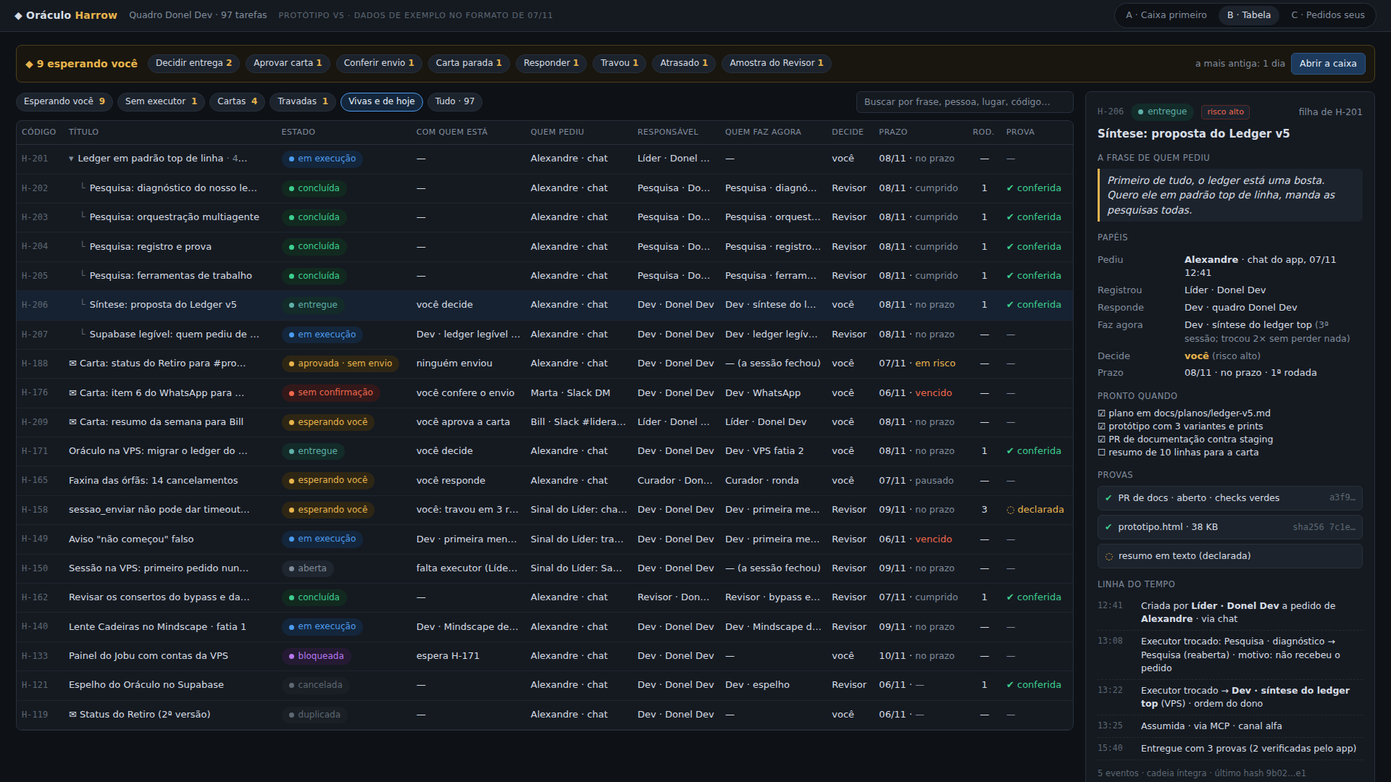
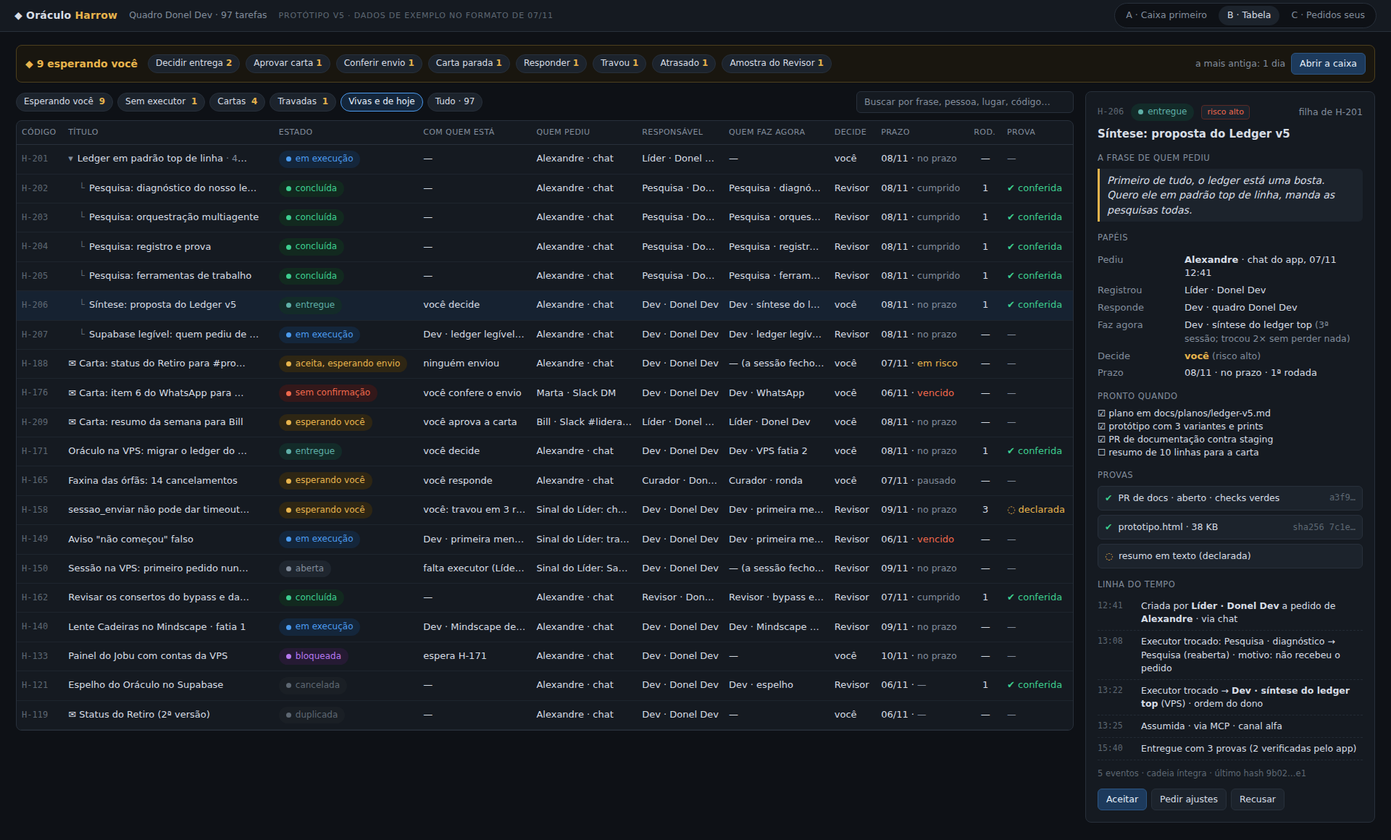
docs: corrige o Ledger v5 com os achados da revisão do PR #280
Protótipo sem rolagem lateral em 390 px nas três variantes, com prints
de celular e de tela larga. Fatias verticais com critério de pronto que
o Revisor confere (a 6 e a 8 antigas viram quatro cada; a 3 e a 4 ganham
efeito visível). D5 (variante), texto "não registrado" e vistas
alinhados com o PR #279, beta já só-leitura, e destino para as práticas
8 e 10 da pesquisa de orquestração.

diff --git a/docs/planos/ledger-v5/prototipo.html b/docs/planos/ledger-v5/prototipo.html
@@ -103,12 +103,43 @@ tr.child td.titlecell{padding-left:22px}
 .kids li{display:flex;align-items:center;gap:8px;padding:5px 0;border-top:1px solid #1e252e;font-size:13px}
 .c-side{padding:14px;align-self:start}
 .c-side .item .t{font-size:13px}
+.tablewrap{overflow-x:auto;-webkit-overflow-scrolling:touch}
+
+/* ---------- larguras menores: nada de rolagem lateral na página ---------- */
+@media (max-width:1180px){
+  .a-grid{grid-template-columns:repeat(2,minmax(0,1fr))}
+  .b-wrap,.c-wrap{grid-template-columns:minmax(0,1fr)}
+  .drawer{position:static}
+  .c-side{order:-1}
+}
+@media (max-width:720px){
+  .topbar{height:auto;flex-wrap:wrap;gap:6px 12px;padding:10px 16px}
+  .topbar .sub{font-size:12px}
+  .proto{order:3;width:100%}
+  .switch{order:4;margin-left:0;width:100%}
+  .switch button{flex:1;padding:6px 4px;font-size:12px}
+  main{padding:14px 16px 20px}
+  .a-head{flex-wrap:wrap;gap:10px}
+  .a-head .grow{flex-basis:100%}
+  .a-grid,.c-list{grid-template-columns:minmax(0,1fr)}
+  .a-all{flex-wrap:wrap;gap:12px 18px}
+  .b-inbox,.filters{flex-wrap:wrap}
+  .b-inbox .grow{display:none}
+  .search{margin-left:0;width:100%}
+  th.opt,td.opt{display:none}
+  .roles{grid-template-columns:86px minmax(0,1fr)}
+  .c-head{flex-wrap:wrap}
+  .code{white-space:nowrap}
+  .kids li{flex-wrap:wrap;row-gap:2px}
+  .kids li .who{max-width:100%!important;flex-basis:100%;padding-left:2px}
+  #view-b .titlecell .ellipsis{max-width:150px!important}
+}
 </style>
 </head>
 <body>
 <div class="topbar">
   <span class="brand">◆ Oráculo <b>Harrow</b></span>
-  <span class="sub">Quadro Donel Dev · 97 tarefas</span>
+  <span class="sub">Quadro Donel Dev · 97&nbsp;tarefas</span>
   <span class="proto">protótipo v5 · dados de exemplo no formato de 07/11</span>
   <div class="switch" id="switch">
     <button data-v="a">A · Caixa primeiro</button>
@@ -127,7 +158,7 @@ tr.child td.titlecell{padding-left:22px}
 const ST = {
   aberta:['aberta','s-aberta'], exec:['em execução','s-exec'], bloq:['bloqueada','s-bloq'], voce:['esperando você','s-voce'],
   entregue:['entregue','s-entregue'], ok:['concluída','s-ok'], cancel:['cancelada','s-cancel'], dup:['duplicada','s-cancel'],
-  aprovada:['aprovada · sem envio','s-voce'], semconf:['sem confirmação','s-bad'], falhou:['falhou','s-bad'], enviada:['enviada','s-ok'],
+  aprovada:['aceita, esperando envio','s-voce'], semconf:['sem confirmação','s-bad'], falhou:['falhou','s-bad'], enviada:['enviada','s-ok'],
 };
 const T = [
   {c:'H-201',t:'Ledger em padrão top de linha',st:'exec',pai:null,ped:'Alexandre · chat',reg:'Líder · Donel Dev',resp:'Líder · Donel Dev',exe:'—',dec:'você',risco:'alto',prazo:'08/11',ps:'no prazo',rod:0,prova:'',kids:6,done:4,
@@ -231,9 +262,9 @@ function rowB(x,child){
   return `<tr class="${child?'child':''} ${x.c==='H-206'?'sel':''}">
     <td class="code">${x.c}</td><td class="titlecell"><div class="ellipsis" style="max-width:250px">${title}</div></td>
     <td>${pill(x.st)}</td><td class="ellipsis" style="max-width:150px">${comQuem(x)}</td>
-    <td class="ellipsis" style="max-width:140px">${ped}</td><td class="ellipsis" style="max-width:115px">${x.resp}</td>
-    <td class="ellipsis" style="max-width:140px">${x.exe}</td><td>${x.dec}</td>
-    <td>${x.prazo} · ${ps(x.ps)}</td><td style="text-align:center">${x.rod||'—'}</td><td>${proof(x.prova)}</td></tr>`;
+    <td class="ellipsis" style="max-width:140px">${ped}</td><td class="ellipsis opt" style="max-width:115px">${x.resp}</td>
+    <td class="ellipsis" style="max-width:140px">${x.exe}</td><td class="opt">${x.dec}</td>
+    <td>${x.prazo} · ${ps(x.ps)}</td><td class="opt" style="text-align:center">${x.rod||'—'}</td><td>${proof(x.prova)}</td></tr>`;
 }
 document.getElementById('view-b').innerHTML = `
   <div class="card b-inbox"><span class="lbl">◆ ${inboxTotal} esperando você</span>
@@ -246,8 +277,8 @@ document.getElementById('view-b').innerHTML = `
         <span class="chip">Cartas <b>4</b></span><span class="chip">Travadas <b>1</b></span><span class="chip on">Vivas e de hoje</span><span class="chip">Tudo · 97</span>
         <span class="search">Buscar por frase, pessoa, lugar, código…</span>
       </div>
-      <div class="card" style="overflow:hidden"><table>
-        <thead><tr><th>Código</th><th>Título</th><th>Estado</th><th>Com quem está</th><th>Quem pediu</th><th>Responsável</th><th>Quem faz agora</th><th>Decide</th><th>Prazo</th><th>Rod.</th><th>Prova</th></tr></thead>
+      <div class="card tablewrap"><table>
+        <thead><tr><th>Código</th><th>Título</th><th>Estado</th><th>Com quem está</th><th>Quem pediu</th><th class="opt">Responsável</th><th>Quem faz agora</th><th class="opt">Decide</th><th>Prazo</th><th class="opt">Rod.</th><th>Prova</th></tr></thead>
         <tbody>${rowsB()}</tbody></table></div>
     </div>
     <aside class="card drawer">
@@ -293,7 +324,7 @@ const asks = [
   {root:{c:'H-209',q:'Resumo da semana para as lideranças.',ped:'Bill · Slack #liderancas',prazo:'08/11'},kids:[byCode['H-209']]},
 ];
 document.getElementById('view-c').innerHTML = `
-  <div class="row" style="margin-bottom:12px"><h1>Pedidos</h1><span class="sub">cada cartão é uma frase de alguém; as filhas são o trabalho que ela gerou</span>
+  <div class="row c-head" style="margin-bottom:12px"><h1>Pedidos</h1><span class="sub">cada cartão é uma frase de alguém; as filhas são o trabalho que ela gerou</span>
     <span class="grow"></span><span class="chip on">De você · 5</span><span class="chip">De outras pessoas · 2</span><span class="chip">Sinais e rotinas · 3</span></div>
   <div class="c-wrap">
     <div class="c-list">

diff --git a/docs/planos/ledger-v5.md b/docs/planos/ledger-v5.md
@@ -83,7 +83,7 @@ lugar não depende mais de o card ainda estar no quadro):
 | **Com quem está** | derivado | a próxima ação, em texto de gente | "você decide", "Revisor confere", "ninguém — falta executor" | não existe |
 
 `pedidoPor` é **obrigatório** em `tarefa_criar` e tem forma fixa `{ tipo: pessoa | sinal |
-rotina, nome, canal }`. Se a sessão não sabe, grava `não informado` — e a linha aparece marcada em
+rotina, nome, canal }`. Se a sessão não sabe, grava `não registrado` (o mesmo texto do PR #279) — e a linha aparece marcada em
 vermelho, nunca preenchida com o papel. Quando a frase veio do dono no chat da própria sessão, o
 app preenche sozinho (`Alexandre · chat`), porque ele sabe de onde chegou a mensagem.
 
@@ -154,6 +154,8 @@ rodada + 1) e `recusar` (fecha, não sai). Hoje "rejeitar" quer dizer as duas ú
 - **Qualquer lugar com Slack** (ou o app) envia uma carta aprovada, não só a sessão autora: a
   carta pertence ao responsável, como toda tarefa.
 - O registro do bot deixa de nascer `aceita`: um envio que falhou é `falhou`.
+- Na tela e no espelho, `aprovada` aparece com o texto que o PR #279 já usa: **"aceita, esperando
+  envio"**. O nome interno muda; o que o dono lê, não.
 
 ### 1.4 Idempotência
 
@@ -239,6 +241,9 @@ Cada prova ganha um **nível**: `verificada` (o app conferiu) ou `declarada` (o 
   valendo), obrigatório para o Revisor aceitar sozinho (ver D3).
 - `gh` indisponível (sem rede, sem login) → a prova fica `declarada` com o motivo, nunca bloqueia
   a entrega.
+- **Rastro carimbado** (prática 8 da pesquisa de orquestração): no `entregar`, o app grava no
+  evento a sessão, a branch e o commit da cabeça da worktree do executor, sem depender do que o
+  agente escreveu. Entra na fatia 12.
 
 ### 1.7 Limite de retrabalho
 
@@ -271,6 +276,8 @@ verbo**, derivada da projeção (nunca gravada à parte):
 - **Adiar** (*snooze*, Linear Inbox): some até a hora escolhida e volta sozinha.
 - A faixa mostra o número total e o mais antigo ("7 esperando você · a mais antiga há 2 dias").
 - A mesma lista alimenta o celular e a vista `esperando_voce` do espelho.
+- **Aviso para fora** (a outra metade da prática 10 da pesquisa de orquestração): cada item novo
+  da caixa dispara o aviso do celular que hoje só existe para carta. Entra na fatia 2.
 
 ### 1.9 Migração v4 → v5 sem perder dado e sem o Alfa antigo apagar nada
 
@@ -285,13 +292,13 @@ verbo**, derivada da projeção (nunca gravada à parte):
    `⟦feito por X⟧` → `executor` da entrega; `⟦substitui id⟧` → `substituida`; `⟦pedido por X⟧`
    (do PR do Dev das colunas) → `pedidoPor`; texto da faxina "concluída: PR #n" →
    `concluida-por-prova` com o link; registro do bot com "o envio falhou" → `falhou`.
-   Sem `pedidoPor` na origem → `não informado` (nunca o papel).
+   Sem `pedidoPor` na origem → `não registrado` (nunca o papel).
 4. **Conferência antes de ativar**: mesma quantidade de tarefas e de eventos, todo id presente,
    e a projeção reconvertida para o formato v4 bate com o original nas tarefas sem marca. Se não
    bater, a migração não ativa, o v4 segue gravando e a caixa mostra "migração recusada" com o
    motivo.
 5. O `ledger.json` passa a ser **regravado como projeção**, com `schemaVersion: 5`, tarefas no
-   formato v4 + campos novos. Um app v4 (Alfa 0.4.0, beta atual) que abre esse arquivo vê a
+   formato v4 + campos novos. Um app v4 (o Alfa 0.4.0) que abre esse arquivo vê a
    versão maior e **fica só-leitura** — mecanismo que já existe (`isNewerLedger`): ele lê as
    tarefas, não consegue gravar, e portanto **não apaga nada**. A fonte de verdade
    (`eventos.jsonl`) ele nem conhece. Para o parse v4 não descartar tarefas com estado novo, o
@@ -301,9 +308,10 @@ verbo**, derivada da projeção (nunca gravada à parte):
 6. A partir do v5 não há mais "subir versão": tipo e versão são por evento, e o leitor tolerante
    preserva o que não conhece (1.5).
 
-**Custo assumido (D1):** depois da migração, o Alfa 0.4.0 e o beta atual só leem o Oráculo — não
-criam tarefa nem liberam carta de Slack. Para trabalhar, o dono abre um Donel Dev v5. É a decisão
-explícita que o diagnóstico pede para sair do congelamento.
+**Custo assumido (D1):** depois da migração, o Alfa 0.4.0 só lê o Oráculo — não cria tarefa nem
+libera carta de Slack. Para trabalhar, o dono abre um Donel Dev v5. É a decisão explícita que o
+diagnóstico pede para sair do congelamento. O beta (`main`) **não muda nada**: ele tem
+`LEDGER_SCHEMA_VERSION = 2` e, pelo `isNewerLedger`, já é só-leitura com o ledger v4 de hoje.
 
 ---
 
@@ -342,7 +350,16 @@ navegador, sem rede). Três variantes, com dados no formato do snapshot real de 
 Na tela, o nível `verificada` aparece como "✔ conferida" (pelo app) e `declarada` como
 "◌ declarada". Os dados do protótipo são de exemplo, montados a partir das tarefas reais de 07/11.
 
-**Recomendação: B com a caixa da A no topo** (a caixa recolhe quando está vazia). A tabela é o
+**No celular** (390 px) as três variantes cabem sem rolagem lateral: a grade vira uma coluna, o
+seletor de variante ocupa a largura toda, o painel da B desce para baixo da tabela, a caixa da C
+sobe para o topo, e a tabela da B esconde Responsável, Decide e Rodadas e rola só dentro do próprio
+cartão. Prints: [A](ledger-v5/celular-a-caixa.png), [B](ledger-v5/celular-b-tabela.png),
+[C](ledger-v5/celular-c-pedidos.png). Conferido no Chromium em 390×844 e 1920×1080: largura da
+página igual à da tela nas três, os três botões do seletor dentro da tela, painel da B sem cruzar a
+tabela, nenhum erro de console e nenhuma requisição de rede.
+
+**Recomendação: B com a caixa da A no topo** (a caixa recolhe quando está vazia). A escolha é
+do dono: é a **D5** (seção 6). A tabela é o
 que ele já abriu no Supabase e criticou; a B responde direto às duas falas ("quem pediu",
 "top de linha"), e a caixa no topo garante que nada que espera por ele fique escondido. A C é a
 mais bonita para pedidos grandes, mas esconde o que não veio dele (sinais do Curador, rotinas).
@@ -355,9 +372,9 @@ dele e só acrescenta.** Nenhuma renomeação depois que o PR dele entrar.
 | Coluna (dele) | No v5 passa a vir de | Coluna nova do v5 | O que mostra |
 |---|---|---|---|
 | `quadro`, `titulo`, `pedido`, `risco`, `prazo`, `id` | igual | `codigo` | chave curta "H-142" |
-| `estado` | estado v5 em português (aberta, em execução, bloqueada, esperando você, entregue, concluída, cancelada, duplicada; carta: aprovada, enviando, enviada, falhou, sem confirmação) | `pai_id` | a tarefa-raiz |
+| `estado` | estado v5 em português (aberta, em execução, bloqueada, esperando você, entregue, concluída, cancelada, duplicada; carta: **aceita, esperando envio** — o mesmo texto do #279, que no v5 vem do estado `aprovada` —, enviando, enviada, falhou, sem confirmação) | `pai_id` | a tarefa-raiz |
 | `esperando_dono` | "está na caixa Esperando você" (qualquer tipo da 1.8) | `com_quem_esta` | "você decide", "Revisor confere", "ninguém — falta executor" |
-| `quem_pediu` | `pedidoPor` (campo, não mais a marca `⟦pedido por⟧`) | `responsavel` | papel · quadro |
+| `quem_pediu` | `pedidoPor` (campo, não mais a marca `⟦pedido por⟧`); sem ele, **"não registrado"**, como no #279 | `responsavel` | papel · quadro |
 | `quem_criou` | `registradaPor`, nome congelado | `quem_decide` | você / Revisor |
 | `quem_faz_agora` | `executor` (a sessão), nome congelado | `prazo_status` | no prazo · em risco · vencido · cumprido |
 | `ultima_entrega`, `link_da_prova`, `prova_texto` | igual | `prova_nivel` | verificada · declarada |
@@ -367,39 +384,80 @@ dele e só acrescenta.** Nenhuma renomeação depois que o PR dele entrar.
 Mais a tabela `tarefas_eventos` (uma linha por evento do log: `id`, `seq`, `tarefa_id`, `tipo`,
 `em`, `por_nome`, `via`, `canal`, `texto`, `hash`) e a vista `esperando_voce`.
 
+**As duas vistas convivem.** A `tarefas_em_aberto` do #279 **fica, com o mesmo nome**: é "tudo o
+que ainda não fechou". No v5 o filtro dela passa a incluir os estados novos que também não fecharam
+(bloqueada, esperando você, enviando, falhou, sem confirmação), além dos quatro de hoje (aberta, em
+execução, entregue, aceita, esperando envio). A `esperando_voce` é nova e mais estreita: só o que
+está na caixa, um item por linha, com o tipo e o verbo da 1.8.
+
 ## 5. Fatiamento em PRs pequenos
 
 Ordem pensada para o dono **sentir a diferença na primeira fatia**, antes de qualquer mudança de
-schema. Cada PR < 50 arquivos, contra `staging`, com `npm run verify`. Testes só onde a regra do
-projeto manda (dado persistido que um canal pode apagar, mensagem que some ou duplica).
+schema. Cada fatia é **vertical**: muda algo que o dono vê na tela, no celular ou no Supabase, e
+tem um **"pronto quando"** que o Revisor confere sem precisar perguntar ao Dev. Cada PR fica abaixo
+de 50 arquivos, vai contra `staging` e passa no `npm run verify`. Teste só onde a regra do projeto
+manda (dado persistido que um canal pode apagar, mensagem que some ou duplica, apagar coisa).
 
-| # | PR | O que o dono sente | Schema | Risco |
+**Base de conferência:** "o snapshot" é uma cópia do `ledger.json` de 07/11 (as 270 tarefas do
+diagnóstico), aberta num `userData` de teste e nunca no do dono. Os números esperados abaixo vêm
+do [diagnóstico](../pesquisas/ledger-diagnostico-2026-11-07.md).
+
+### Sem mexer no schema (v4)
+
+| # | Fatia | O dono vê | Pronto quando (o Revisor confere) | Risco |
 |---|---|---|---|---|
-| 1 | **Caixa "Esperando você" completa, sobre o v4** — derivada do que já existe: cartas aceitas não enviadas, envios "sem confirmação" e "falhou" (lendo o texto de hoje), entregues de risco baixo paradas há 24 h, órfãs para repassar, amostra do Revisor. Faixa com total e o mais antigo. Celular usa a mesma lista. | "Agora eu vejo tudo o que espera por mim." O 0 vira o número de verdade. | não muda | baixo |
-| 2 | **Tabela legível no app (variante B)** — vista "Tudo" do Oráculo com as colunas da seção 4 derivadas do v4, busca, filtros prontos, painel com linha do tempo. | "Dá para entender de quem é cada coisa." | não muda | baixo |
-| 3 | **Contrato v5 puro + upcaster v4→v5** — tipos, envelope, estados, regras novas em `applyLedgerOp`, upcaster das marcas. Sem gravar nada. Teste: importar um v4 de amostra não perde tarefa nem evento e reconverte igual. | nada visível (base) | define o v5 | médio |
-| 4 | **Log só de acréscimo + trava + hash + migração** — `eventos.jsonl`, `oraculo.lock`, conferência da cadeia, backups, projeção `ledger.json` v5; migração com conferência e recusa. Teste: migração, dois escritores, cadeia quebrada vira alerta. | Alfa antigo fica só-leitura (avisado antes). | **sobe para 5** | **alto** (D1) |
-| 5 | **Papéis e fim da órfã** — `pedidoPor` obrigatório (preenchido sozinho no chat do dono), executor separado, nomes congelados, sessão fechada → "aberta, sem executor" na caixa do Líder. | "Quem pediu: Alexandre", nunca "Dev". Órfãs zeram. | v5 | médio |
-| 6 | **Estados de verdade + idempotência + tarefa-pai** — bloqueada, esperando você (com pergunta), concluída, cancelada tipada, duplicada; `chave`; `paiId`/`dependeDe`; título obrigatório. Faxina fecha `concluida-por-prova`. | Um pedido = uma linha com filhas; sem 5 cópias; "cancelada" quer dizer cancelada. | v5 | médio |
-| 7 | **Carta com recibo** — estados de envio, `ts` + permalink, reenvio pela mesma chave, envio por qualquer lugar com Slack ou pelo app, conferência do "sem confirmação". | "Cadê a mensagem do Slack?" tem resposta com link. | v5 | médio (Slack em nome dele) |
-| 8 | **Prova verificada + Revisor + teto de retrabalho** — `sha256`, `gh` no entregar, nível da prova, checklist do critério, regra do Revisor (D3), 3 rodadas → caixa, "parada" em 4 h. | Prova com selo "conferida pelo app"; nada aceito no escuro. | v5 | médio |
-| 9 | **Espelho v5** — `tarefas` com as colunas novas + `tarefas_eventos` + vista `esperando_voce`, por outbox. Depende do PR do Dev das colunas ter entrado. | O Supabase conta a mesma história que o app. | v5 | baixo |
+| 1 | **Caixa "Esperando você" completa** — lista derivada do que já existe: cartas aceitas não enviadas, envios "sem confirmação" e "falhou" (lendo o texto de hoje), entregues de risco baixo paradas há 24 h, órfãs para repassar, amostra do Revisor. Faixa com total e o item mais antigo. | "Agora eu vejo tudo o que espera por mim." O 0 vira o número de verdade. | Sobre o snapshot, a caixa mostra **as 7 cartas aceitas e não enviadas** (os 7 ids do diagnóstico), **os 17 envios sem confirmação** e **as 8 entregues de risco baixo**, em vez de 0. A faixa mostra o total e "a mais antiga há N dias". Prints da faixa e da caixa. | baixo |
+| 2 | **Aviso no celular para todo item da caixa** — o sino do celular, que hoje só avisa de carta, passa a avisar de cada item novo da caixa da fatia 1. É a metade "avisar quando nasce um item" da prática 10 da pesquisa de orquestração. | O celular toca quando alguma coisa passa a esperar por ele, não só carta. | Com o celular pareado e o sino ligado, uma entrega de risco alto e um envio "sem confirmação" criados no `userData` de teste geram **um aviso cada**, com o título do item. Reabrir o app não repete o aviso, e o toque abre o item. Print do celular com os dois avisos. | baixo |
+| 3 | **Tabela legível no app (variante B com a caixa da A no topo, se o D5 confirmar)** — vista "Tudo" do Oráculo com as colunas da seção 4 derivadas do v4, busca, filtros prontos e painel com a linha do tempo. | "Dá para entender de quem é cada coisa." | Sobre o snapshot, **nenhuma linha mostra um papel ("Dev", "Líder") em "Quem pediu"**: aparece a pessoa ou a fonte, ou "não registrado" em vermelho. Os filtros "Esperando você" e "Tudo" dão o mesmo total da caixa e 270. Prints em 1920 px e em 390 px (no celular, sem rolagem lateral). | baixo |
+| 4 | **As marcas viram leitura de verdade** — contrato v5 e upcaster v4→v5, só para leitura: a tabela da fatia 3 passa a mostrar o estado e o motivo reais em vez de "cancelada ⟦…⟧". Nada é gravado. | "Cancelada" passa a querer dizer cancelada. As feitas aparecem como feitas. | Sobre o snapshot, **nenhuma célula mostra `⟦`**. **As 12 "canceladas" que foram feitas** aparecem como "concluída por prova" ou "enviada", e as 7 substituídas como "substituída por H-n". Teste: o upcaster lê o snapshot sem perder tarefa, e reconvertê-lo para v4 dá o mesmo arquivo nas tarefas sem marca. | médio |
 
-As fatias 1 e 2 podem sair **em paralelo** e já amanhã; a 3 pode andar junto delas (não grava
-nada). A 4 só entra com o D1 decidido. Da 5 à 8, sequência (mexem no mesmo contrato). Se o PR #249
-(Oráculo na VPS) entrar antes da 4, o log nasce no serviço da VPS — o formato é o mesmo.
+Nenhuma fatia é só base. O contrato e o upcaster, que antes eram "nada visível", entram na 4,
+junto com um efeito na tela: as marcas somem. O log e a migração entram na 5, com o cartão
+"Integridade" e o aviso do Alfa antigo como o que se vê.
+
+### A subida para o v5 (depende do D1)
+
+| # | Fatia | O dono vê | Pronto quando | Risco |
+|---|---|---|---|---|
+| 5 | **Log com trava, hash e migração** — `eventos.jsonl`, `oraculo.lock`, cadeia de hash conferida ao abrir, backups, projeção `ledger.json` v5; migração com conferência e recusa (1.9). | O cartão "Integridade" na caixa ("cadeia de N eventos conferida às hh:mm"). Um Alfa 0.4.0 aberto ao lado avisa "este Donel Dev só lê o Oráculo". | Migrar o snapshot dá **270 tarefas e 270 eventos de importação**, e a conferência passa. Com o Alfa 0.4.0 aberto sobre o arquivo migrado, criar tarefa falha com o aviso, e o `sha256` do `eventos.jsonl` é **igual antes e depois**. Editar uma linha do log à mão faz aparecer um item "Integridade" na caixa. Testes: migração, dois escritores, cadeia quebrada. | **alto** (D1) |
+| 6 | **Papéis e fim da órfã** — `pedidoPor` obrigatório (o app preenche sozinho quando a frase veio do dono no chat), executor separado, nomes congelados; sessão fechada → "aberta, sem executor" na caixa do Líder. | "Quem pediu: Alexandre", nunca "Dev". As órfãs zeram. | **Nenhuma tarefa nova mostra um papel em "Quem pediu"**. `tarefa_criar` sem `pedidoPor` grava "não registrado", em vermelho. Fechar uma sessão de teste com uma tarefa em execução põe a tarefa em "aberta, sem executor" na caixa do Líder, e **o contador de órfãs vai a 0**. | médio |
+
+### Dentro do v5 (cada uma confere sozinha)
+
+| # | Fatia | O dono vê | Pronto quando | Risco |
+|---|---|---|---|---|
+| 7 | **Estados de espera** — `bloqueada` (por tarefa ou por fato, com motivo) e `esperando você` com pergunta ou pedido de aprovação; destravar sozinho. | Itens "Responder" e "Aprovar" na caixa; a tarefa bloqueada diz por quê. | Uma sessão de teste faz uma pergunta → aparece um item "Responder" na caixa; a resposta chega no chat dela, e a tarefa volta a "em execução". Uma tarefa que depende de outra fica "bloqueada · espera H-n" e **destrava sozinha** quando a outra fecha. | médio |
+| 8 | **Fechamento tipado e três verbos** — concluída, cancelada com motivo, duplicada e substituída; aceitar · pedir ajustes · recusar; a faxina fecha como "concluída por prova". | O botão "Pedir ajustes" separado de "Recusar"; a contagem de rodadas na linha. | Rodar a faxina sobre o snapshot **não cria nenhuma "cancelada" nova com PR mesclado**: elas saem como "concluída por prova", com o link. "Pedir ajustes" numa tarefa de teste mostra "2ª rodada"; "Recusar" fecha com o motivo. | médio |
+| 9 | **Sem cópias do mesmo pedido** — `chave` de idempotência em toda escrita; sem chave, hash de pedido + responsável + quadro + pai em 24 h. | "Já existia: H-142" em vez da 5ª cópia. | Chamar `tarefa_criar` duas vezes com o mesmo pedido cria **uma** tarefa só, e a segunda chamada responde "já existia: H-n". A mesma chave com outro conteúdo é recusada. Teste: chave repetida não duplica. | médio |
+| 10 | **Tarefa-pai e título obrigatório** — `paiId`, `dependeDe`, progresso na raiz, título até 60. | Um pedido = uma linha com as filhas embaixo e "3 de 5 prontas". | Um pedido de teste com 3 filhas aparece como **uma linha com "0 de 3 prontas"**, e o número sobe quando uma filha fecha. `tarefa_criar` sem título é recusada. **As 75 tarefas sem título do snapshot** aparecem com um título marcado "título gerado". | médio |
+| 11 | **Carta com recibo** — estados de envio, `ts` + permalink, reenvio pela mesma chave, envio por qualquer lugar com Slack ou pelo app, conferência do "sem confirmação". | "Cadê a mensagem do Slack?" tem resposta com link. | Uma carta de teste (com `carta_slack` aceita pelo dono) num canal de teste dele vira "enviada" com um **link que abre a mensagem**. Uma falha simulada vira "falhou", e reenviar com a mesma chave deixa **uma** mensagem no canal. Uma carta de uma sessão já fechada sai pelo botão "Enviar pelo app". | médio (Slack em nome dele) |
+| 12 | **Prova conferida pelo app e rastro carimbado** — `sha256` dos arquivos, `gh` no entregar (PR e CI), nível conferida/declarada. O app carimba **sessão, branch e commit** na entrega sem depender do agente: é a prática 8 da pesquisa de orquestração. | O selo "✔ conferida" e, na linha do tempo, de onde a entrega saiu. | Entregar com o link de um PR mostra "✔ conferida" com o SHA e o estado dos checks; entregar só com texto mostra "◌ declarada". Trocar o arquivo de prova depois da entrega faz a carta dizer "a prova mudou". A entrega de uma sessão de teste mostra a sessão, a branch e o commit **sem que o agente os tenha escrito**. | médio |
+| 13 | **Revisor mais exigente (D3) e "pronto quando" em checklist** | Item sem prova aparece vazio na carta; o que o Revisor não pode aceitar sobe para a caixa. | Um Revisor de teste tenta aceitar uma entrega de risco baixo com prova só declarada → **o aceite é recusado** e a decisão aparece na caixa do dono. Com uma prova conferida e o checklist completo, o aceite passa. | médio |
+| 14 | **Teto de 3 rodadas** | O item "Travou" na caixa, com as três provas e os três motivos. | Na 3ª vez que alguém pede ajustes numa tarefa de teste, ela **não volta à sessão**: aparece em "Travou", com os verbos trocar executor, mudar critério e cancelar. | baixo |
+| 15 | **"Parada" em 4 h** | A linha diz "parada há N h", e o Líder recebe um aviso. | Uma tarefa em execução sem nenhum sinal da sessão por 4 h (com o relógio adiantado no teste) aparece como **"parada"** na tabela, e o Líder recebe **uma** mensagem. Um sinal novo tira a marca. | baixo |
+| 16 | **Espelho v5** — `tarefas` com as colunas novas, `tarefas_eventos`, `tarefas_em_aberto` com o filtro novo e a vista `esperando_voce`, por outbox. Depende do #279 ter entrado. | O Supabase conta a mesma história que o app. | No Supabase do dono, `select count(*) from tarefas` dá o total do app, `esperando_voce` tem **o mesmo número da faixa**, e `tarefas_eventos` tem uma linha por evento do log. Desligar a rede e religar não perde nem duplica linha. | baixo |
+
+As fatias 1 a 4 podem sair **já**, em paralelo duas a duas (1 e 3 primeiro; a 2 depende da lista
+da 1, e a 4 depende da tabela da 3). A 5 só entra com o D1 decidido. A 6 vem logo depois dela;
+da 7 à 15 a ordem é a da tabela, porque todas mexem no mesmo contrato (a 13 depende da 12). Se o
+PR #249 (Oráculo na VPS) entrar antes da 5, o log nasce no serviço da VPS: o formato é o mesmo.
 
 ## 6. Decisões que são do dono
 
-- **D1 — Alfa antigo só-leitura.** Depois da fatia 4, o Alfa 0.4.0 e o beta atual só leem o
-  Oráculo (não criam tarefa nem liberam carta). Recomendo **aceitar**: é o único jeito de parar a
-  perda de campo; o custo é abrir sempre um app v5.
+- **D1 — Alfa antigo só-leitura.** Depois da fatia 5, o Alfa 0.4.0 só lê o Oráculo (não cria
+  tarefa nem libera carta). O beta não muda: ele já só lê o ledger de hoje. Recomendo **aceitar**:
+  é o único jeito de parar a perda de campo; o custo é abrir sempre um app novo.
 - **D2 — Responsável = papel no quadro.** A tarefa deixa de ser da sessão. Recomendo **aceitar**
   (V1).
 - **D3 — Revisor mais exigente.** Só aceita sozinho com prova verificada e checklist completo;
   senão sobe para você. Recomendo **aceitar**, sabendo que a caixa enche mais na primeira semana.
-- **D4 — Ordem.** Começar pelas fatias 1 e 2 (sem schema) antes de decidir o D1. Recomendo
+- **D4 — Ordem.** Começar pelas fatias 1 a 4 (sem schema) antes de decidir o D1. Recomendo
   **aceitar**: você sente a diferença sem risco, e decide o D1 vendo a caixa funcionando.
+- **D5 — Qual tela.** Das três variantes do protótipo (A caixa primeiro, B tabela, C pedidos seus),
+  qual vira o Oráculo. Recomendo **B com a caixa da A no topo**: a tabela responde ao "quem pediu"
+  e ao "top de linha", e a caixa no topo garante que nada que espera por você fique escondido. A C
+  esconde o que não veio de você (sinais do Curador, rotinas). A fatia 3 só começa com o D5
+  respondido.
 
 ## Fora de escopo
 
@@ -412,7 +470,7 @@ nada). A 4 só entra com o D1 decidido. Da 5 à 8, sequência (mexem no mesmo co
 
 ## Ainda não especificado
 
-- Texto exato de cada verbo na caixa e no celular (sai do protótipo escolhido).
+- Texto exato de cada verbo na caixa e no celular (sai da variante escolhida no D5).
 - Prazo para "carta parada" (30 min proposto) e "parada" (4 h proposto): ajustar com uso.
 - Como a sessão sem Slack pede que outra envie uma carta aprovada (provável: tarefa filha
   automática para o lugar com Slack do quadro).
